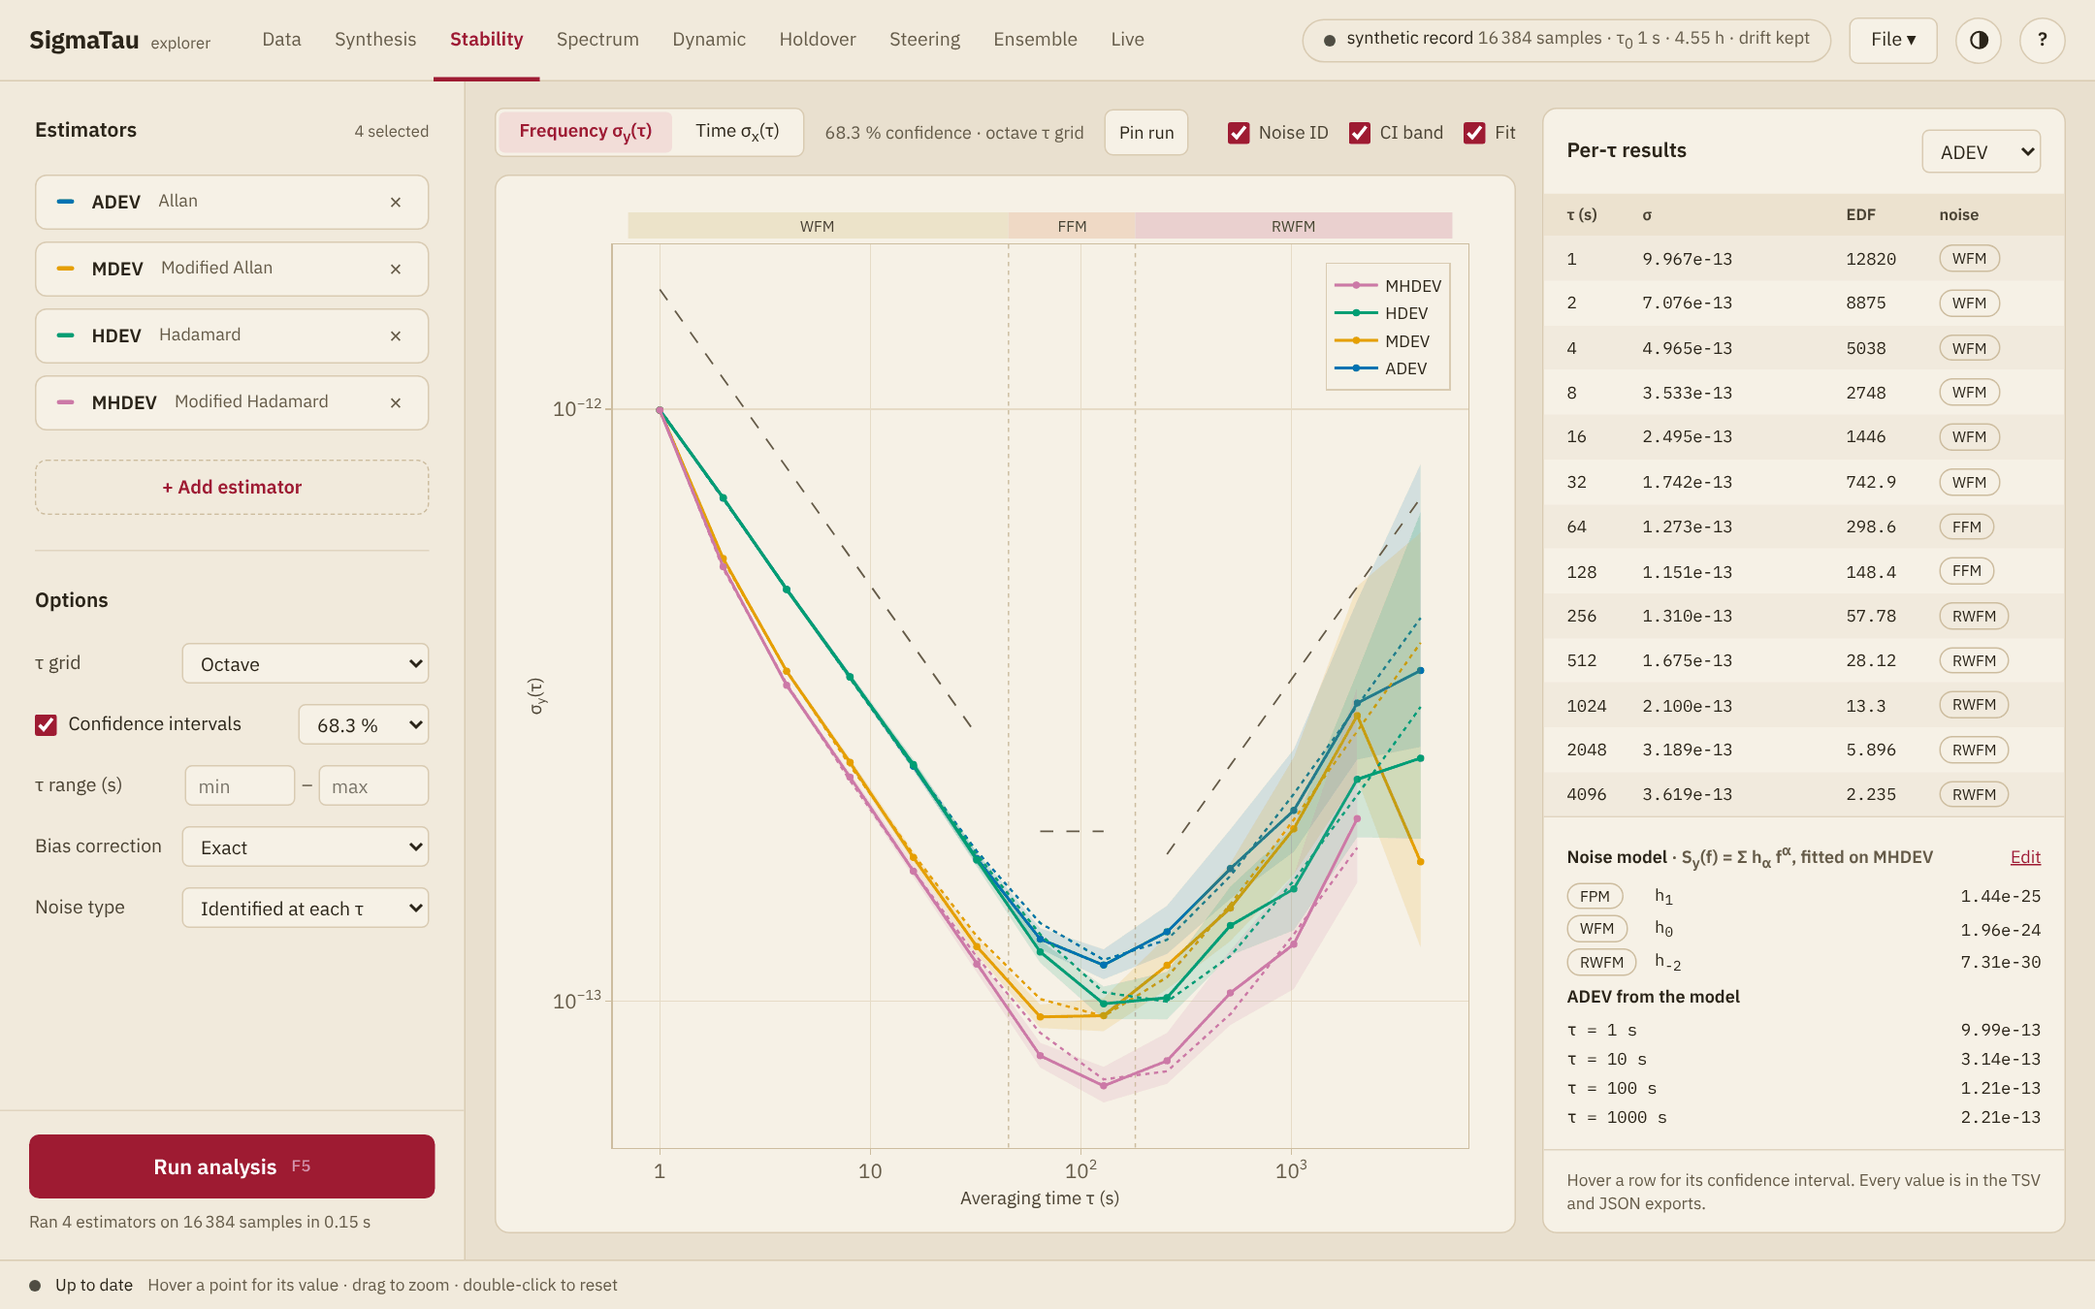
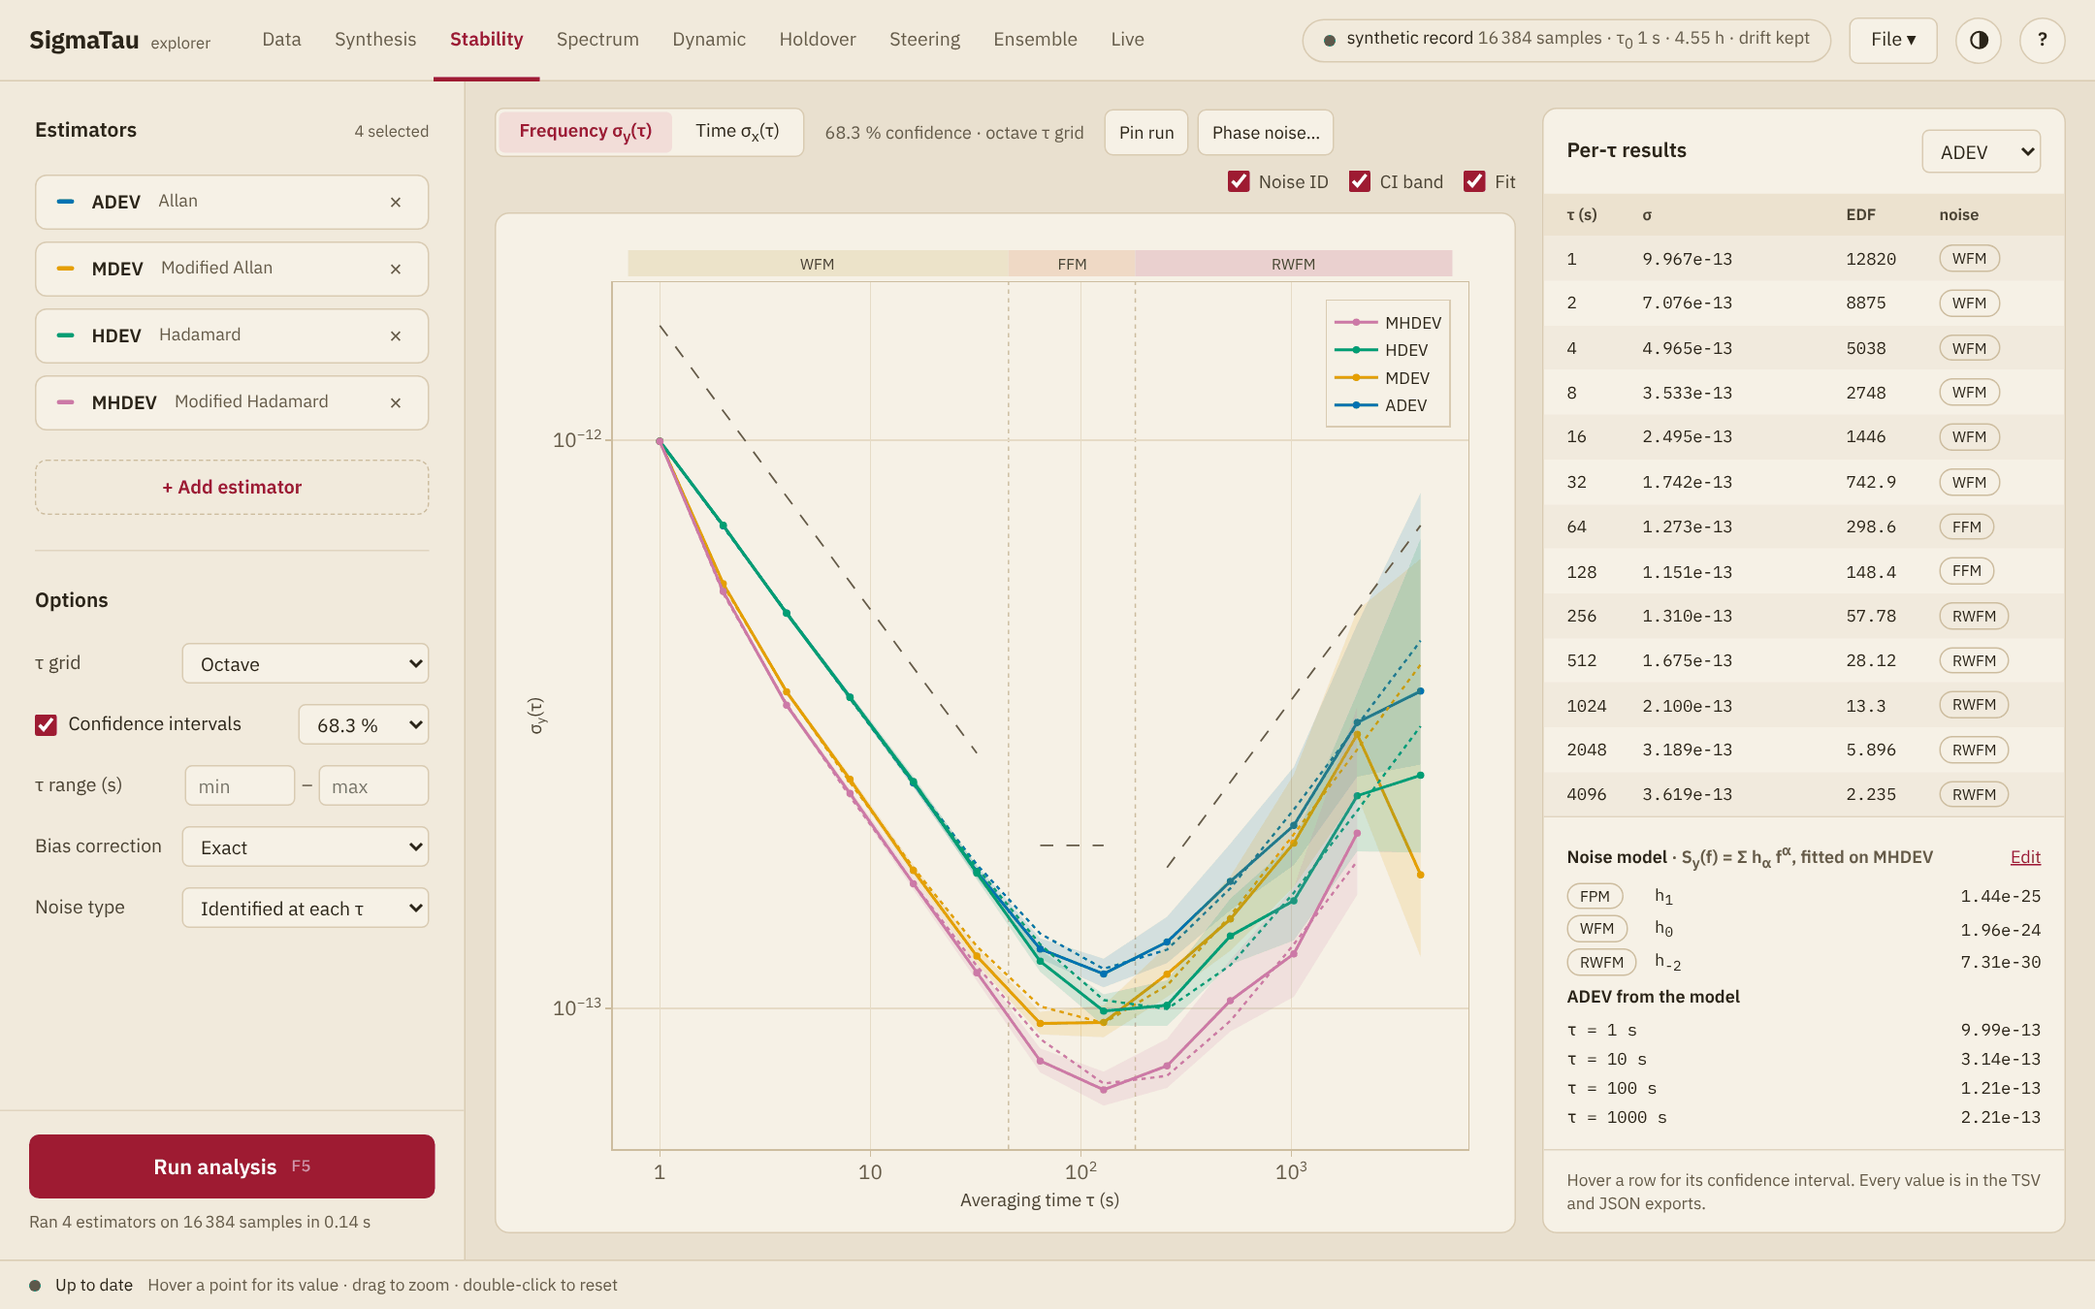
Explorer: σ(τ) from a phase-noise table on the Stability plot
**Phase noise…** on the Stability page opens a table of offset frequency
and ℒ(f), converts it with `sigmatau phasenoise` at the carrier of the
Spectrum page, and draws ADEV, MDEV, TDEV, HDEV and MHDEV as broken
lines beside the deviations of the record, like a pinned run. Its chip
states the band of the table, what the noise below it would add at the
longest averaging time, and whether ADEV and HDEV depend on the bandwidth
of the measurement.

The web server and the desktop shell accept the `phasenoise` command.

diff --git a/app/web/ui/js/help-content.js b/app/web/ui/js/help-content.js
@@ -214,7 +214,7 @@ export const TOPICS = [
       "<p><b>Frequency σy(τ)</b> and <b>Time σx(τ)</b> switch between the two kinds of estimator: the fractional frequency deviations, which have no unit, and the time deviations, in seconds. The page shows the estimators of one kind at a time. <a href=\"#help/estimators\">Estimators and noise types</a> lists which is which.</p>",
       "<p>With one clock, each estimator is a line in its own color, named in the legend. With several clocks the color is that of the clock and the line style that of the estimator, and the status bar lists the line styles.</p>",
       "<p>The line beside the two buttons states the settings of the <a href=\"#help/panel/Options\">side panel</a>: the confidence level, the τ grid, the bias correction when an estimator that takes one is in the list, and the noise type when it is not identified at each averaging time.</p>",
-      "<table><thead><tr><th>Control</th><th>Effect</th></tr></thead><tbody><tr><td><b>Noise ID</b></td><td>Shows the noise type identified at each averaging time in a strip above the plot</td></tr><tr><td><b>CI band</b></td><td>Draws the confidence intervals as a shaded band. Without it they are error bars</td></tr><tr><td><b>Fit</b></td><td>Draws the <a href=\"#help/stability/The-noise-model\">noise model</a> and lists its coefficients</td></tr><tr><td><b>Pin run</b></td><td>Keeps the curves of this run on the plot, as <a href=\"#help/stability/Pinned-runs\">pinned runs</a></td></tr><tr><td>Mask menu</td><td>On the time axis, draws a <a href=\"#help/stability/Masks\">telecom mask</a></td></tr></tbody></table>",
+      "<table><thead><tr><th>Control</th><th>Effect</th></tr></thead><tbody><tr><td><b>Noise ID</b></td><td>Shows the noise type identified at each averaging time in a strip above the plot</td></tr><tr><td><b>CI band</b></td><td>Draws the confidence intervals as a shaded band. Without it they are error bars</td></tr><tr><td><b>Fit</b></td><td>Draws the <a href=\"#help/stability/The-noise-model\">noise model</a> and lists its coefficients</td></tr><tr><td><b>Pin run</b></td><td>Keeps the curves of this run on the plot, as <a href=\"#help/stability/Pinned-runs\">pinned runs</a></td></tr><tr><td><b>Phase noise…</b></td><td>Draws the deviations that a <a href=\"#help/stability/A-phase-noise-table\">table of phase noise</a> gives</td></tr><tr><td>Mask menu</td><td>On the time axis, draws a <a href=\"#help/stability/Masks\">telecom mask</a></td></tr></tbody></table>",
       "<p>Hovering over a point shows its averaging time and value, with the EDF and the noise type behind its interval. MTIE and TIE rms have no interval.</p>",
       "<p><b>Noise ID</b> and <b>CI band</b> need the confidence intervals, since the noise types are identified for them. Both are disabled while <b>Confidence intervals</b> is off in the panel.</p>",
     ] },
@@ -252,6 +252,12 @@ export const TOPICS = [
       "<h2>Pinned runs</h2>",
       "<p><b>Pin run</b> keeps the curves of the last run on the plot, as thin broken lines under those of every later run. Each pin is a chip beside the button, <b>Pin 1</b>, <b>Pin 2</b>, and hovering over it lists what its run was: the estimators, the τ grid, the analysis range and the drift removal. × removes the pin.</p>",
       "<p>A pin shows what a change does: pin, change the drift removal, the range or the bias correction, and run again. Pins are part of the plot and of its image. They are not in the other exports or in a saved session.</p>",
+    ] },
+    { id: "A-phase-noise-table", level: 2, title: "A phase-noise table", html: [
+      "<h2>A phase-noise table</h2>",
+      "<p><b>Phase noise…</b> opens a file with two columns, the offset frequency in Hz and the phase noise <span class=\"math\">ℒ(<i>f</i>)</span> in dBc/Hz, as a phase-noise analyzer exports it or as a data sheet lists it. Lines of text above the numbers are skipped. The explorer converts the table to ADEV, MDEV, TDEV, HDEV and MHDEV with <a href=\"https://ianlap.github.io/SigmaTau.jl/dev/reference/spectra/#SigmaTau.spectrum_sigma\" target=\"_blank\" rel=\"noopener\"><code>spectrum_sigma</code></a>, at the carrier frequency set on the <a href=\"#help/spectrum\">Spectrum page</a>, and draws those of the estimators in the list as broken lines, like a pinned run. Its chip is <b>ℒ(f) 1</b>, and × removes it.</p>",
+      "<p>A table covers a band of offset frequencies, and the curves are the deviations of the noise inside that band. They run from the shortest averaging time that the band resolves, one over its highest offset, to a tenth of one over its lowest. Hovering over the chip gives the band, how much the noise below it would add to the Allan variance at the longest averaging time, and whether ADEV and HDEV depend on the bandwidth of the measurement: on white and flicker PM they do, and the curves then hold for a bandwidth equal to the highest offset of the table. <a href=\"https://ianlap.github.io/SigmaTau.jl/dev/explanation/noise/#A-measured-spectrum\" target=\"_blank\" rel=\"noopener\">Power-law noise</a> has the conversion.</p>",
+      "<p>A table of a few offsets beside a record measured at one-second intervals puts the short and the long averaging times of one oscillator on one plot. Like a pin, the table is not in a saved session.</p>",
     ] },
     { id: "Several-clocks", level: 2, title: "Several clocks", html: [
       "<h2>Several clocks</h2>",

diff --git a/app/web/ui/js/pages/stability.js b/app/web/ui/js/pages/stability.js
@@ -5,6 +5,8 @@ import { state, update, visibleClocks, multi, markStale } from "../state.js";
 import { byId, label, gridName, CONFIDENCES, noiseLabel, noiseTitle, noiseSlope, BIAS_CORRECTED, biasEntry } from "../estimators.js";
 import { loadPlotly, baseLayout, logAxis, CONFIG, seriesColor, DASHES, hexAlpha, css } from "../plot.js";
 import { sci, num, escapeHtml as h } from "../format.js";
+import { phaseNoise } from "../core.js";
+import { carrierLabel } from "./spectrum.js";
 
 // ITU-T wander masks the core checks (sigmatau --mask), by its names: the
 // wander a clock generates, then the limits of a network at an interface.
@@ -36,6 +38,7 @@ export function mount(el, ctx) {
           `<button type="button" data-axis="${k}">${v}</button>`).join("")}</div>
         <span class="caption" data-ref="caption"></span>
         <span class="pin-list" data-ref="pins"></span>
+        <input type="file" data-ref="pn-file" hidden>
         <span class="toggles">
           <label class="check" title="Noise type identified at each τ (lag-1 autocorrelation), with the power-law slope it implies"><input type="checkbox" data-tog="noiseId">Noise ID</label>
           <label class="check" title="Draw the confidence intervals as a shaded band instead of error bars"><input type="checkbox" data-tog="band">CI band</label>
@@ -56,6 +59,7 @@ export function mount(el, ctx) {
     if (e.target.closest("[data-act=load]")) ctx.goData();
     if (e.target.closest("[data-act=run]")) ctx.run();
     if (e.target.closest("[data-act=pin]")) pinRun();
+    if (e.target.closest("[data-act=pn]")) root.querySelector("[data-ref=pn-file]").click();
     const act = e.target.closest("[data-fit]")?.dataset.fit;
     if (act) editModel(act, ctx);
     const un = e.target.closest("[data-unpin]")?.dataset.unpin;
@@ -65,6 +69,11 @@ export function mount(el, ctx) {
     const tog = e.target.dataset.tog;
     if (tog) { update((s) => { s[tog] = e.target.checked; }); return; }
     const r = e.target.dataset.ref;
+    if (r === "pn-file") {
+      const file = e.target.files[0];
+      e.target.value = "";             // the same file can be chosen again
+      if (file) pinPhaseNoise(file, ctx);
+    }
     if (r === "table-dev") update((s) => { s.tableDev = e.target.value; });
     if (r === "cmp-tau") update((s) => { s.compareTau = Number(e.target.value); });
     if (r === "mask") update((s) => { s.mask = e.target.value; });
@@ -167,10 +176,40 @@ export function pinRun() {
   return true;
 }
 
+// A phase-noise table as a pin: the σ(τ) that its ℒ(f) gives over the band
+// of the table, at the carrier of the Spectrum page, beside the deviations
+// of the record.
+async function pinPhaseNoise(file, ctx) {
+  const hz = (f) => carrierLabel(f);
+  try {
+    const carrier = state.spec.carrier;
+    const doc = await phaseNoise({ name: file.name, content: await file.text() }, carrier);
+    const [f1, fh] = doc.spectrum.band;
+    const of = (dev) => doc.results.find((r) => r.deviation === dev);
+    const tau = of("adev").tau, last = tau.length - 1;
+    const title = [
+      `${file.name}: ℒ(f) at ${doc.spectrum.n} offsets from ${hz(f1)} to ${hz(fh)}, carrier ${hz(carrier)}`,
+      `σ(τ) of the noise inside that band, for τ from ${num(tau[0], 3)} s to ${num(tau[last], 3)} s`,
+      `At ${num(tau[last], 3)} s the noise below ${hz(f1)} would add ${num(100 * of("adev").below[last], 2)} % to the Allan variance`,
+      ...(of("adev").above[0] === null ? [`ADEV and HDEV depend on the measurement bandwidth here: they hold for ${hz(fh)}`] : []),
+    ].join("\n");
+    update((s) => {
+      const n = (s.pinCount = (s.pinCount ?? 0) + 1);
+      s.pins.push({
+        id: n, label: `ℒ(f) ${n}`, title,
+        clocks: [{ name: file.name, slot: s.clocks.length, results: doc.results.map((r) => ({ dev: r.deviation, tau: r.tau, sigma: r.dev })) }],
+      });
+    });
+    ctx.status("good", `σ(τ) from ${file.name} is on the plot as ℒ(f) ${state.pinCount}, for a carrier of ${hz(carrier)} (set on the Spectrum page).`);
+  } catch (err) {
+    ctx.status("error", `${file.name}: ${err.message}`);
+  }
+}
+
 function renderPins() {
   const el = root.querySelector("[data-ref=pins]");
   const has = visibleClocks().some((c) => c.result);
-  el.innerHTML = `<button class="btn btn-sm" data-act="pin" ${has ? "" : "disabled"} title="Keep these results on the plot to compare with the next run">Pin run</button>${state.pins.map((p) =>
+  el.innerHTML = `<button class="btn btn-sm" data-act="pin" ${has ? "" : "disabled"} title="Keep these results on the plot to compare with the next run">Pin run</button><button class="btn btn-sm" data-act="pn" ${has ? "" : "disabled"} title="Draw the σ(τ) that a table of phase noise gives: a file of offset frequency in Hz and ℒ(f) in dBc/Hz, at the carrier of the Spectrum page">Phase noise…</button>${state.pins.map((p) =>
     `<span class="chip" title="${h(p.title)}">${h(p.label)}<button class="link-btn" data-unpin="${p.id}" aria-label="Remove ${h(p.label)}">×</button></span>`).join("")}`;
 }
 

diff --git a/app/web/ui/js/core.js b/app/web/ui/js/core.js
@@ -325,6 +325,27 @@ export function liveStop() {
     : fetch("api/live/stop", { method: "POST", headers: { "Content-Type": "application/json" }, body: "{}" });
 }
 
+// Lines above the first row of two numbers in a table: a title, column names.
+function headingLines(text) {
+  const number = /^[-+]?(\d+\.?\d*|\.\d+)(e[-+]?\d+)?$/i;
+  const lines = text.split(/\r?\n/);
+  const first = lines.findIndex((l) => {
+    const cells = l.trim().split(/[\s,;]+/);
+    return cells.length > 1 && number.test(cells[0]) && number.test(cells[1]);
+  });
+  return Math.max(first, 0);
+}
+
+// The σ(τ) that a table of ℒ(f) gives over its band (ADEV, MDEV, TDEV, HDEV
+// and MHDEV), at a carrier frequency in Hz; the core's JSON as is.
+export async function phaseNoise(file, carrier, signal) {
+  const args = ["phasenoise", "--carrier", carrier, "--devs", "adev,mdev,tdev,hdev,mhdev",
+    "--header", headingLines(file.content), "--format", "json"];
+  const doc = await post({ args: args.map(String), file }, signal);
+  if (doc.schema_version !== 1) throw new Error(`the analysis core speaks schema ${doc.schema_version}; this page needs 1`);
+  return doc;
+}
+
 // The σ(τ) that noise models predict (MDEV, ADEV and MHDEV per model), closed form.
 export async function modelPreview({ n, tau0, models }, signal) {
   const args = ["model", "--synth", n, "--tau0", tau0, ...models.flatMap((m) => ["--noise-model", m.join(":")]), "--format", "json"];

diff --git a/app/web/test/test_serve.py b/app/web/test/test_serve.py
@@ -173,6 +173,15 @@ class ServeTests(unittest.TestCase):
         self.assertEqual(status, 200, doc)
         self.assertEqual(doc["record"]["n"], 1024)
 
+    def test_phasenoise_table(self):
+        table = "offset,L\n" + "".join(f"{10.0**k},{-100 - 20 * k}\n" for k in range(6))
+        status, doc = self.post({
+            "args": ["phasenoise", "--carrier", "10e6", "--header", "1", "--devs", "adev,tdev", "--format", "json"],
+            "file": {"name": "ocxo.csv", "content": table}})
+        self.assertEqual(status, 200, doc)
+        self.assertEqual(doc["spectrum"]["band"], [1.0, 1e5])
+        self.assertEqual([r["deviation"] for r in doc["results"]], ["adev", "tdev"])
+
     def test_dynamic(self):
         status, doc = self.post({"args": ["dynamic", "--synth", "4096", "--dev", "dhdev",
                                           "--format", "json"]})

diff --git a/app/desktop/src/main.rs b/app/desktop/src/main.rs
@@ -93,7 +93,7 @@ fn core_command(core: &Path) -> Command {
     cmd
 }
 
-const COMMANDS: [&str; 10] = ["check", "analyze", "spectrum", "dynamic", "drift", "holdover", "steer", "timescale", "hat", "model"];
+const COMMANDS: [&str; 11] = ["check", "analyze", "spectrum", "dynamic", "drift", "holdover", "steer", "timescale", "hat", "model", "phasenoise"];
 
 /// Check a request `{args: [command, flags...], file: {name, content} | null}`
 /// (the same rules as serve.py) and return the sigmatau arguments, with the

diff --git a/app/web/serve.py b/app/web/serve.py
@@ -53,7 +53,7 @@ def cli_command():
     return None
 
 
-COMMANDS = {"check", "analyze", "spectrum", "dynamic", "drift", "holdover", "steer", "timescale", "hat", "model"}
+COMMANDS = {"check", "analyze", "spectrum", "dynamic", "drift", "holdover", "steer", "timescale", "hat", "model", "phasenoise"}
 
 
 def request_to_args(req, workdir):

diff --git a/docs/src/explorer/stability.md b/docs/src/explorer/stability.md
@@ -28,6 +28,7 @@ type when it is not identified at each averaging time.
 | **CI band** | Draws the confidence intervals as a shaded band. Without it they are error bars |
 | **Fit** | Draws the [noise model](#The-noise-model) and lists its coefficients |
 | **Pin run** | Keeps the curves of this run on the plot, as [pinned runs](#Pinned-runs) |
+| **Phase noise…** | Draws the deviations that a [table of phase noise](#A-phase-noise-table) gives |
 | Mask menu | On the time axis, draws a [telecom mask](#Masks) |
 
 Hovering over a point shows its averaging time and value, with the EDF and
@@ -151,6 +152,32 @@ removes the pin.
 A pin shows what a change does: pin, change the drift removal, the range or
 the bias correction, and run again. Pins are part of the plot and of its
 image. They are not in the other exports or in a saved session.
+
+## A phase-noise table
+
+**Phase noise…** opens a file with two columns, the offset frequency in Hz
+and the phase noise ``ℒ(f)`` in dBc/Hz, as a phase-noise analyzer exports
+it or as a data sheet lists it. Lines of text above the numbers are
+skipped. The explorer converts the table to ADEV, MDEV, TDEV, HDEV and
+MHDEV with [`spectrum_sigma`](@ref), at the carrier frequency set on the
+[Spectrum page](spectrum.md), and draws those of the estimators in the
+list as broken lines, like a pinned run. Its chip is **ℒ(f) 1**, and ×
+removes it.
+
+A table covers a band of offset frequencies, and the curves are the
+deviations of the noise inside that band. They run from the shortest
+averaging time that the band resolves, one over its highest offset, to a
+tenth of one over its lowest. Hovering over the chip gives the band, how
+much the noise below it would add to the Allan variance at the longest
+averaging time, and whether ADEV and HDEV depend on the bandwidth of the
+measurement: on white and flicker PM they do, and the curves then hold for
+a bandwidth equal to the highest offset of the table.
+[Power-law noise](../explanation/noise.md#A-measured-spectrum) has the
+conversion.
+
+A table of a few offsets beside a record measured at one-second intervals
+puts the short and the long averaging times of one oscillator on one plot.
+Like a pin, the table is not in a saved session.
 
 ## Several clocks
 

diff --git a/app/web/README.md b/app/web/README.md
@@ -43,8 +43,9 @@ command as `POST /api/analyze` with the body
 ```
 
 The first argument must be `check`, `analyze`, `spectrum`, `dynamic`,
-`drift`, `holdover`, `steer`, `timescale`, `hat` or `model`, and `--out` is
-refused. The server saves `file` in a temporary folder and puts its path after the
+`drift`, `holdover`, `steer`, `timescale`, `hat`, `model` or `phasenoise`,
+and `--out` is refused. The server saves `file` in a temporary folder and
+puts its path after the
 command. A request for a simulated record has no `file`, and `--synth N`
 must then follow the command directly, so that no request names a path on
 the machine of the server. The answer is the JSON of the program, with
